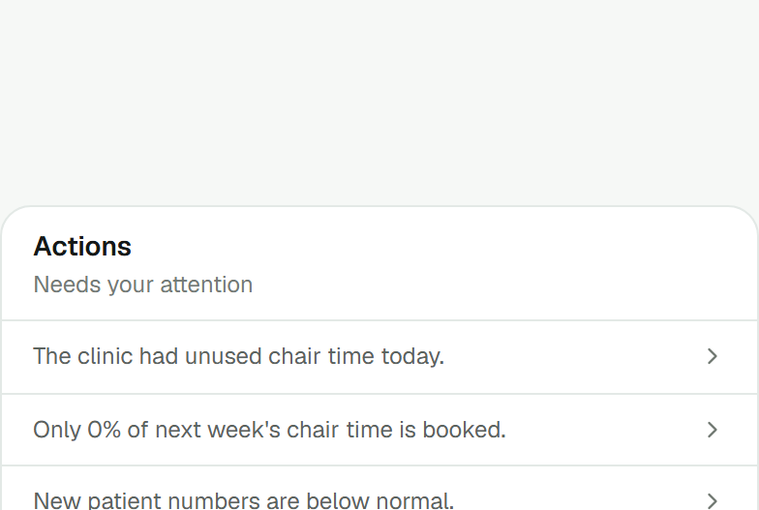
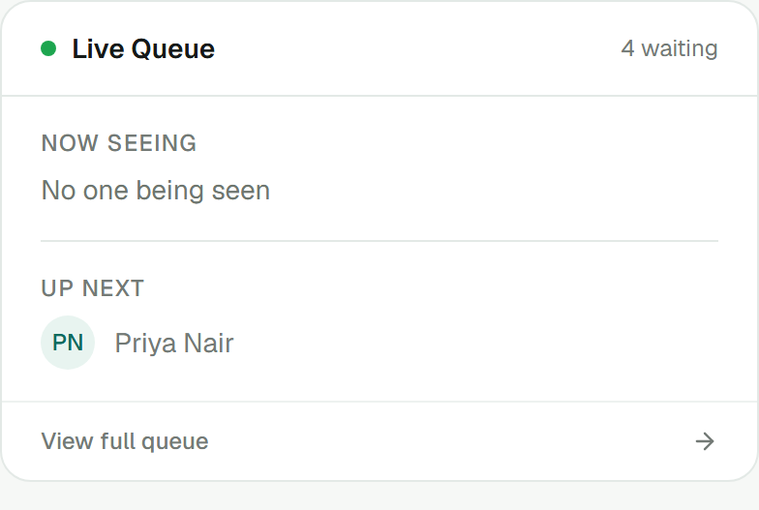
fix: offer_queue showed Actions, and Clinical records now uses Treatments
- offer_queue.png was cropping the "Actions" card instead of the Live
  Queue widget it's meant to show. The crop's y coordinate (468) was
  the Live Queue card's top edge before the last round's re-shoot
  added an Actions card above it in the same dashboard column, which
  pushed Live Queue down to y 763 without moving it horizontally.
  Confirmed against the running app's own layout (not guessed from
  the image) and fixed in scripts/crop-product-screenshots.mjs.
- The "Clinical records" card now shows the Treatments tab instead of
  the Dental Chart — the chart already carries the FinancialFreedom
  banner lower on the page, so showing it twice was redundant.
  offer_chart.png is gone; offer_treatments.png (new) is a tight,
  sharp crop (0.86x on-screen scale, not the ~0.3x a full treatment
  row would blur out to) of the same patient-treatments capture
  offer_patient.png already uses, showing Priya Nair's two treatment
  records. Uses an explicit width/height rather than the shared
  OFFER_ASPECT, for the same "name and status sit ~1200px apart"
  reason offer_billing already avoids cropping its list rows.

Both are documented at length in PRODUCT_SCREENSHOTS.md, including
why the offer_queue break was silent (the crop still succeeds, it
just crops the wrong thing) and what to re-check after any future
Dashboard layout change.

Verified: typecheck, lint, and a production build all pass; both new
crops confirmed serving correctly (direct fetch through the app,
[…]

diff --git a/src/components/UI/OffersSection/constants.ts b/src/components/UI/OffersSection/constants.ts
@@ -1,6 +1,6 @@
 import offer_queue from '../../../../public/images/product/offer_queue.png';
 import offer_patient from '../../../../public/images/product/offer_patient.png';
-import offer_chart from '../../../../public/images/product/offer_chart.png';
+import offer_treatments from '../../../../public/images/product/offer_treatments.png';
 import offer_billing from '../../../../public/images/product/offer_billing.png';
 
 // Same eyebrow-plus-headline shape as the sections below it (see
@@ -45,9 +45,9 @@ export const offers = [
       'One record per patient: contact details, visit history, notes and what they still owe.',
   },
   {
-    illustration: offer_chart,
+    illustration: offer_treatments,
     title: 'Clinical records',
-    alt: 'An OraMedha dental chart with per-tooth treatment status and its legend',
+    alt: "OraMedha's Treatments list for a patient, showing each treatment's name, date and status",
     details:
       'A dental chart, treatments and consent that stay attached to the patient rather than to a folder.',
   },

diff --git a/PRODUCT_SCREENSHOTS.md b/PRODUCT_SCREENSHOTS.md
@@ -38,7 +38,7 @@ mockup, an illustration, or hand-built UI.
 |---|---|---|---|
 | Today's Dashboard | `/dentist` | 1920×1150 | Full day: 12 appointments, ₹33,800 revenue, a four-patient live queue |
 | Actions (Business Brain) | `/dentist/business-brain` | 1680×1300 | Clinic health 69 · 3 "Needs attention" findings paired with 3 "What to do" actions |
-| Patient Profile — Treatments | `/dentist/patients/[id]?tab=treatments` | 1600×1100 | Priya Nair — 4 visits, 6 treatments, a real outstanding balance |
+| Patient Profile — Treatments | `/dentist/patients/[id]?tab=treatments` | 1600×1100 | Priya Nair — 5 visits, 2 treatments (one completed, one planned) |
 | Patient Profile — Dental Chart | `/dentist/patients/[id]?tab=dental-chart` | 1920×1150 | Asha Menon — the local seed's own patient with dental-chart entries, built out to all 32 teeth spanning every tooth status (recommended, planned, in-progress, completed, missing) |
 | Billing & Payments | `/dentist/payments` | 1680×1200 | Today's revenue, 10 patients with remaining balances, a real payment ledger |
 | Appointments | `/dentist/appointments?filter=today` | 1680×1200 | 32 appointments across dates, doctors and statuses |
@@ -59,17 +59,22 @@ All files live in `public/images/product/`.
 | `brain_action.png` | Actions — the "What to do" column | "Know what to do next" card |
 | `offer_queue.png` | Today's Dashboard — the Live Queue widget | "Appointments and queue" card |
 | `offer_patient.png` | Patient Profile (Priya Nair) — header + treatments | "Patients and history" card |
-| `offer_chart.png` | Dental Chart — both arches + legend | "Clinical records" card |
+| `offer_treatments.png` | Patient Profile — Treatments list, Priya Nair's two records | "Clinical records" card |
 | `offer_billing.png` | Billing & Payments — revenue + remaining balances | "Billing and payments" card |
 | `appointments-workspace.png` | Appointments (full capture, resized) | Operations, the full-width banner under "Less front-desk chaos" |
 | `appointments_banner_mobile.png` | Appointments, portrait crop | Operations, below 768px |
 
 ### Crop aspects
 
-The four `offer_*` previews are cropped to a common ~1.45 aspect, so the set
-renders at one consistent size and the cards crop nothing further at render
-time. Changing one of them means matching that aspect, or the card it sits in
-will start cropping it.
+Three of the four `offer_*` previews are cropped to a common ~1.45 aspect
+(`OFFER_ASPECT` in the crop script), so that set renders at one consistent
+size and the cards crop nothing further at render time. `offer_treatments.png`
+is the exception — an explicit width and height instead, because at
+`OFFER_ASPECT`'s own height the crop ran on past its last line of real
+content into blank white space (see "The `offer_*` previews must be TIGHT
+crops" below). `ImageCtn`'s `object-fit: contain` sizes each preview to its
+own aspect inside the same `max-height` slot regardless, so this doesn't
+misalign anything — the row just isn't four identical rectangles anymore.
 
 `panel_right.png` is gone. Operations used to carry a cropped slice of the
 appointments list at 44rem, which shrank a whole screen to 704px and left its
@@ -157,6 +162,43 @@ site's slots were tuned against — the four `offer_*` previews in particular sh
 a ~1.45 aspect so the card row renders at one consistent size. It also hard-codes
 each region in CSS pixels, and that is the one part of the pipeline that needs
 revisiting if the app's layout changes materially.
+
+## The offer_queue fix, and Clinical records switching to Treatments
+
+Two follow-ups to the Dashboard/Dental Chart re-shoot above, found after it
+shipped.
+
+**`offer_queue.png` was showing the Actions card, not the Live Queue.**
+`{ x: 1080, y: 468, width: 392 }` used to land exactly on the Live Queue
+card — before this round's re-shoot added an "Actions" card above it in the
+same column, pushing Live Queue down without moving it sideways. `x` and
+`width` were still correct; only `y` was stale (468 -> 763, confirmed
+against the running app's own layout, not guessed from the image). Nothing
+else needed to change.
+
+This is the risk the pipeline's own docs already named — "hard-codes each
+region in CSS pixels, and that is the one part of the pipeline that needs
+revisiting if the app's layout changes materially" — and it's silent by
+construction: the crop still succeeds, it just crops the wrong thing, so
+nothing fails loudly. Re-check the `offer_*` crops by eye after any Dashboard
+layout change, not just after a re-shoot of Dashboard itself.
+
+**"Clinical records" now shows the Treatments tab, not the Dental Chart.**
+The dental chart already carries the FinancialFreedom banner lower on the
+page; showing it a second time here was redundant, and Treatments is a
+better fit for what the card's own copy describes ("A dental chart,
+treatments and consent..."). `offer_chart.png` is gone — nothing references
+it — replaced by `offer_treatments.png`, a crop of the same
+`patient-treatments` capture `offer_patient.png` already uses, showing
+Priya Nair's two treatment records (name + date on each).
+
+That crop uses an explicit width and height (`exactRegion`), not
+`OFFER_ASPECT`, for the same reason `offer_billing` avoids the Remaining
+Balances list: a treatment row puts its name (left) and its status badge +
+cost (right) about 1200 CSS px apart, too far apart to fit both ends in a
+crop narrow enough to stay sharp. This crop keeps the left side — sharp, at
+0.86x — rather than the whole row at ~0.3x. The card's copy already
+describes billing and status; the image doesn't have to repeat it.
 
 ## The Dashboard and Dental Chart re-shoot
 
